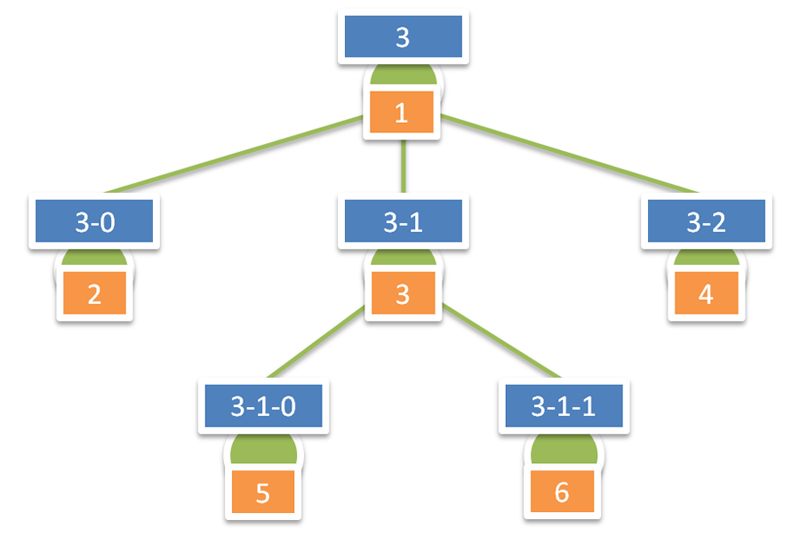
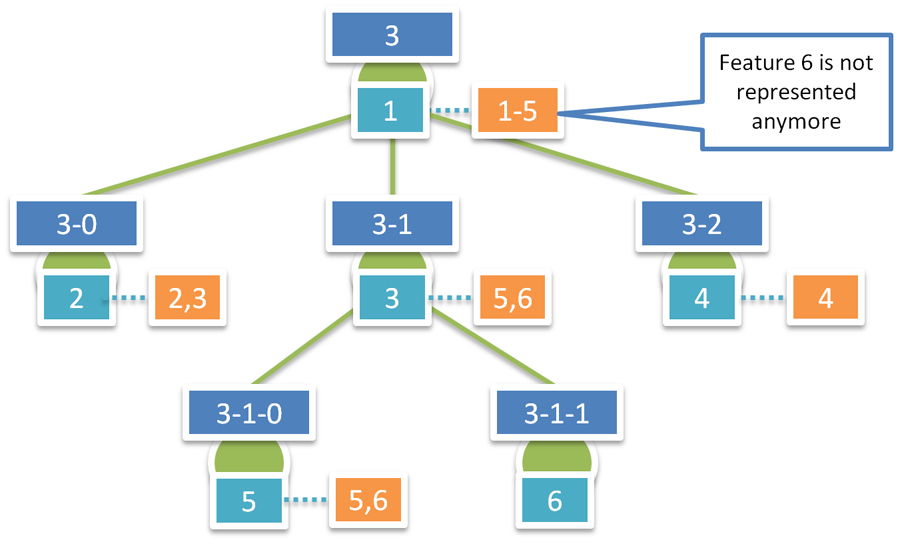
Replaced incorrect figure-03.png.

Changed region(s): [[0.0, 0.0, 1.0, 0.9927], [0.5312, 0.6515, 0.7812, 0.9927], [0.625, 0.6204, 0.6562, 0.6515]]

diff --git a/format/Indexed 3d Scene Format Specification.md b/format/Indexed 3d Scene Format Specification.md
@@ -5,7 +5,7 @@ Format Specification</h2>
 
 <p>Version 1.3, rev. 53, 2014-05-14</p>
 </p style="font-size:80%"><em>Editor:</em> Thorsten Reitz, Esri R&amp;D Center Zurich <br/>
-<em>Contributors:</em> Tamrat Belayneh, Javier Gutierrez, Pascal Müller, Dragan Petrovic, Johannes Schmid, Chengliang Shan, Ben Tan, Moxie Zhang</p>
+<em>Contributors:</em> Tamrat Belayneh, Javier Gutierrez, Pascal M&uuml;ller, Dragan Petrovic, Johannes Schmid, Chengliang Shan, Ben Tan, Moxie Zhang</p>
 
 <p>
 This document specifies the Indexed 3D Scene delivery
@@ -275,7 +275,7 @@ The figure below shows an example of such a tree.</p>
 
 <img src="images/figure-03.png" title="Example Nodes + Mesh Pyramid" alt="Example Nodes + Mesh Pyramid" />
 
-<p><em>Figure 1: Example Nodes + Mesh Pyramid. Orange boxes represent meshes.</em></p>
+<p><em>Figure 3: Example Nodes + Mesh Pyramid. Example Nodes + Mesh Pyramid. Turquise boxes represent geometries, orange boxes represent features. Turquise dotted lines indicate Geometry -> Feature relationships.</em></p>
 
 <p>In this example, from root to leaf nodes, each node carries a single mesh representing one or multiple features, for a total count of six nodes and six meshes. 
 This is typically the case with <em>integrated meshes</em>. Each of the features that is not a in a root node has a set of lodChildren, 
